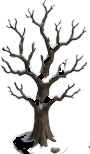
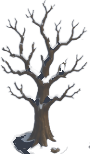
Deko im Schnee, Winterbaum, Jaeger-Bogen (R4 Punkte 2-4)
R4/G2 - Sommer-Deko auf Schnee (Rueckfall hinter eine R3-Zusage):
Der Filter reichte nur EINEN Nachbarring weit und kannte nur TER.SNOW;
Firn auf Massivknoten zaehlte gar nicht. Jetzt zwei Ringe und Firn
inbegriffen. Gemessen im Winterbild (Schneegrenze z1,6): gruene
Abtastpunkte im reinen Weiss 458 -> 332.

R4/G1 - tree_winter.png: 499 von 2255 deckenden Pixeln (22 %) lagen in
allen Kanaelen unter RGB 35, keiner davon grenzte an etwas Helleres als
158 - kein Kernschatten, sondern eine beim Freistellen zu Schwarz
gequetschte Flaeche; auf Weiss las sich der Baum als verkohlt. Der
Schwarzpunkt wird angehoben und kuehl gestimmt (tools/winterbaum.mjs,
Rohfassung gesichert): unter RGB 35 jetzt 0 Pixel, dunkelster Wert 66.
Rindenzeichnung und Lichter bleiben unveraendert.

R4/S1-Teil - Jaeger-Bogen: das Bogen-Tabu galt nur fuer FERTIGE
Jaegerhaeuser. Bier liegt ab Takt 0 im Lager, also hatte die
Rekrutierung die drei Startboegen laengst verbraucht, bevor das Haus
stand - danach wartete der Jaeger auf die Waffenschmiede, die Eisen
braucht (gemessen 6x bzw. 15x Wartemeldung je Saat). Reserviert wird
jetzt schon fuer ein Haus IM BAU. Gemessen ueber drei Saaten, 40 min:
0x Wartemeldung, und wo ein Jaegerhaus steht, hat es seinen Bogen.

NICHT geschafft: R4/G3a (Kantenrauschen an Gelaendegrenzen). Ein
Verzahnungs-Pass an den Typgrenzen wurde gebaut und wieder entfernt - er
liess die gemessene Geradenlaenge unveraendert (55 px) und trug dafuer
[…]

diff --git a/js/render.js b/js/render.js
@@ -4713,7 +4713,22 @@ export class Renderer {
       // des Nachbarn blendet bis auf diesen Knoten herueber, und die
       // Schneewehe der Ebene weht ebenfalls hierher - gruene Bueschel,
       // Margeriten und Farbtupfer laesen sich dort als Stempel AUF dem Weiss.
-      const nahSchnee=m.nbs(i).some(n=>m.terr[n]===TER.SNOW);
+      // Kritik R4 G2: der Filter reichte nur EINEN Nachbarring weit und
+      // kannte nur TER.SNOW. Gemessen standen im Winterbild sechs Halm-
+      // buendel unstrittig auf reinem Schnee, mehrere Ringe von der
+      // Gruenkante entfernt (Messpunkt 177/189/164, also Gruenstich 25,
+      // gegen Schnee 215/214/207 mit 7). Jetzt zwei Ringe weit, und der
+      // FIRN auf Massivknoten zaehlt mit - dort liegt oben Weiss, obwohl
+      // der Knoten Gebirge ist.
+      const msn9=this.massifSnow();
+      const weiss=(n)=> m.terr[n]===TER.SNOW
+        || ((m.terr[n]===TER.MOUNT||m.terr[n]===TER.LAVA) && this.firnAt
+            && m.hgt[n]>=this.firnAt(n)-0.4);
+      let nahSchnee=false;
+      aussenD: for(const n of m.nbs(i)){
+        if(weiss(n) || msn9[n]){ nahSchnee=true; break; }
+        for(const n2 of m.nbs(n)) if(weiss(n2) || msn9[n2]){ nahSchnee=true; break aussenD; }
+      }
       // Wiesen-Deko aus dem Asset-Paket (Blumen, Pilze, Distel ...), sparsam gestreut
       if(h>0.97 && !nahSchnee){
         const water=m.nbs(i).some(n=>m.terr[n]===TER.WATER);

diff --git a/js/sim.js b/js/sim.js
@@ -3415,10 +3415,17 @@ export class Game {
         // der wartende Jaeger ging trotz Bogen-Nachschub leer aus (22 min
         // Stillstand im Messlauf). Existiert ein Jaeger, der sein Werkzeug
         // noch nicht hat, bleibt EIN Bogen im Hauptquartier fuer ihn liegen.
+        // Kritik R4 S1: das Tabu galt nur fuer FERTIGE Jaegerhaeuser. Bier
+        // liegt aber ab Takt 0 im Lager, und ein Jaegerhaus braucht Minuten
+        // bis zur Fertigstellung - bis dahin hatte die Rekrutierung die drei
+        // Startboegen laengst verbraucht. Gemessen wartete der Jaeger danach
+        // 30 Spielminuten (Meldung 6x bzw. 15x je Saat), weil Nachschub nur
+        // aus der Waffenschmiede kommt und die Eisen braucht. Ein Bogen wird
+        // deshalb schon reserviert, sobald das Haus IM BAU ist.
         let bogenTabu=0;
         for(const b9 of this.buildings.values())
           if(b9.player===p.id && TOOL_OF[b9.type]==='bow' && !b9.toolGood
-             && b9.state==='done'){ bogenTabu=1; break; }
+             && (b9.state==='done' || b9.state==='build')){ bogenTabu=1; break; }
         while(this.recruitTotal(p.id)<10 && (hq.inv.beer||0)>0 && guard-->0){
           // ausgewogen rekrutieren: den Typ mit der kleinsten Reserve zuerst
           const canDo=STYPE_LIST.filter(t=>{

diff --git a/sw.js b/sw.js
@@ -6,7 +6,7 @@
 // Server längst die neue auslieferte. Beim Installieren wird zusätzlich am
 // HTTP-Cache vorbei geladen (cache:'reload'), sonst holt sich der neue
 // Serviceworker über die noch gültigen Cache-Header wieder die alten Bytes.
-const BUILD = 'v192';
+const BUILD = 'v193';
 const CACHE = 'neuland-' + BUILD;
 const FILES = [
   './', './index.html', './style.css', './manifest.webmanifest',
